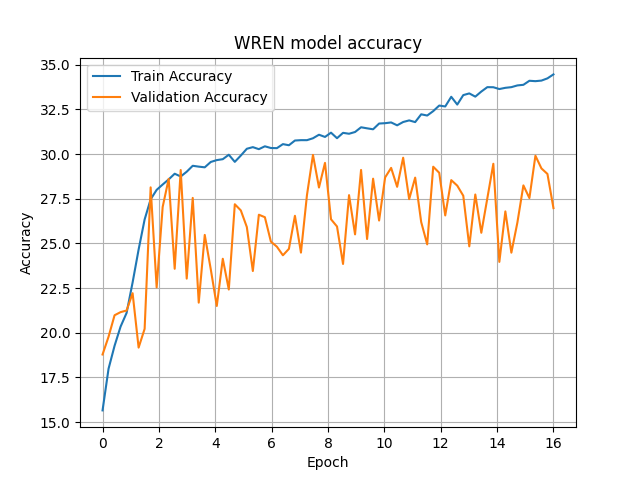
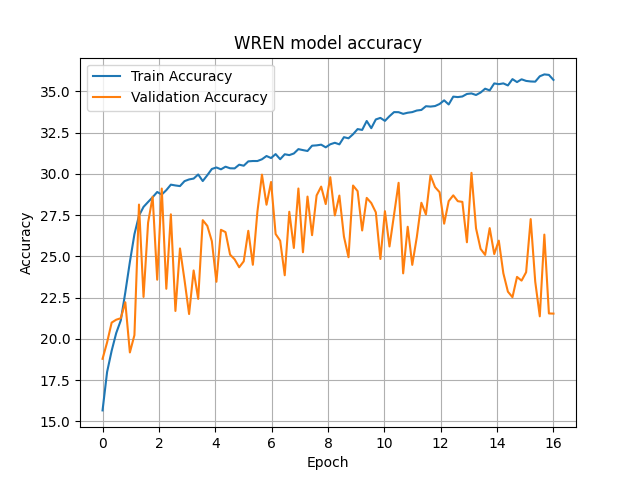
New results

diff --git a/test.py b/test.py
@@ -7,7 +7,6 @@ from torchvision.transforms import Compose
 from transforms import ResizeImage, ToTensor
 
 from data_loader import PGM_dataset
-from utils import get_transforms
 import torch
 import numpy as np
 from tqdm import trange
@@ -17,8 +16,8 @@ WORKERS = 16
 
 LR = 0
 
-MODEL_ROOT_FOLDER = 'Results/CNN_MLP_19_09_09'
-MODEL_NAME = 'CNN_MLP_19_09_09CNN_MLP_epoch_16.pth'
+MODEL_ROOT_FOLDER = 'Results/WildRelationalNetwork_22_17_09'
+MODEL_NAME = 'WildRelationalNetwork_epoch_8.pth'
 MODEL_PATH = MODEL_ROOT_FOLDER+'/'+MODEL_NAME
 TEST_SAVE_NAME = 'test_acc.txt'
 TEST_METRICS_NAME = 'test_metrics.json'
@@ -29,7 +28,7 @@ TEST_METRICS_PATH = MODEL_ROOT_FOLDER+'/'+TEST_METRICS_NAME
 
 device = torch.device('cuda' if torch.cuda.is_available() else 'cpu')
 
-model = model = Models_V2.CNN_MLP(LR, 0.9, 0.999, 1e-08).to(device)
+model = model = Models_V2.WildRelationalNetwork(LR, 0.9, 0.999, 1e-08).to(device)
 
 tf = Compose([ResizeImage(80), ToTensor()])
 test_set = PGM_dataset(TEST_DATAST_PATH, tf)
@@ -42,13 +41,12 @@ def test():
 
     test_loader_iter = iter(test_loader)
     for idx in trange(len(test_loader_iter)):
-        image, target, meta_target = next(test_loader_iter)
+        image, target = next(test_loader_iter)
 
         image = torch.autograd.Variable(image, requires_grad=False).to(device)
         target = torch.autograd.Variable(target, requires_grad=False).to(device)
-        meta_target = torch.autograd.Variable(meta_target, requires_grad=False).to(device)
 
-        correct, count = model.test_(image, target, meta_target)
+        correct, count = model.test_(image, target)
 
         metrics['correct'].append(correct)
         metrics['count'].append(count)
